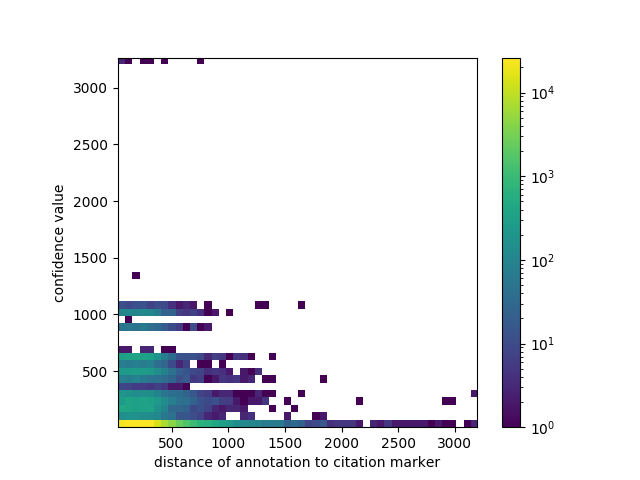
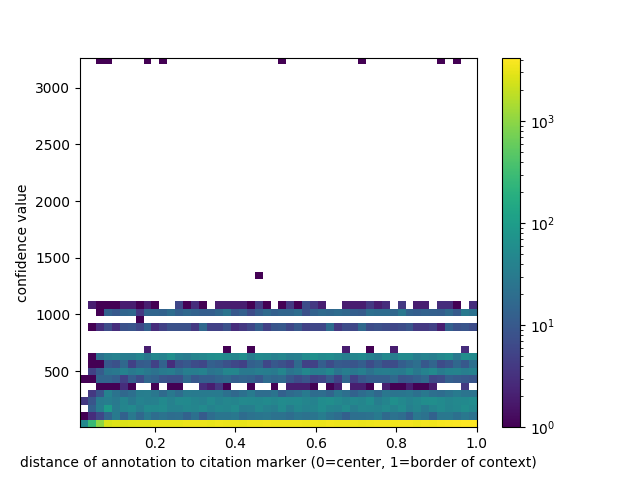
add meeting notes. update plots.

diff --git a/img/mag_fos_annot_conf_vals/plot.py b/img/mag_fos_annot_conf_vals/plot.py
@@ -5,8 +5,8 @@ from matplotlib.colors import LogNorm
 from nltk import pos_tag
 from nltk.tokenize.punkt import PunktSentenceTokenizer, PunktParameters
 
-# with open('annot_dist_conf_vals.json') as f:
-with open('annot_dist_lvl_vals.json') as f:
+# with open('annot_dist_lvl_vals.json') as f:
+with open('annot_dist_conf_vals.json') as f:
     tupls = json.load(f)
 
 x = []
@@ -14,14 +14,15 @@ y = []
 for tupl in tupls:
     # if tupl[1] <= 300 and tupl[0] <= 1000:
     # if tupl[1] <= 500 and tupl[1] >= 20:
-    # if tupl[0] <= 1500:
-    x.append(tupl[0])
-    y.append(tupl[1])
+    if tupl[0] <= 1:
+        x.append(tupl[0])
+        y.append(tupl[1])
 
-plt.xlabel('distance of annotation to citation marker')
-# plt.ylabel('confidence value')
-plt.ylabel('annotation level')
-heatmap, xedges, yedges = np.histogram2d(x, y, bins=(50, 9))
+plt.xlabel('distance of annotation to citation marker (0=center, 1=border of context)')
+plt.ylabel('confidence value')
+# plt.ylabel('annotation level')
+# heatmap, xedges, yedges = np.histogram2d(x, y, bins=(50, 9))
+heatmap, xedges, yedges = np.histogram2d(x, y, bins=(50))
 extent = [xedges[0], xedges[-1], yedges[0], yedges[-1]]
 plt.imshow(heatmap.T, extent=extent, origin='lower', norm=LogNorm(), aspect='auto')
 # plt.imshow(heatmap.T, extent=extent, origin='lower', aspect='auto')
